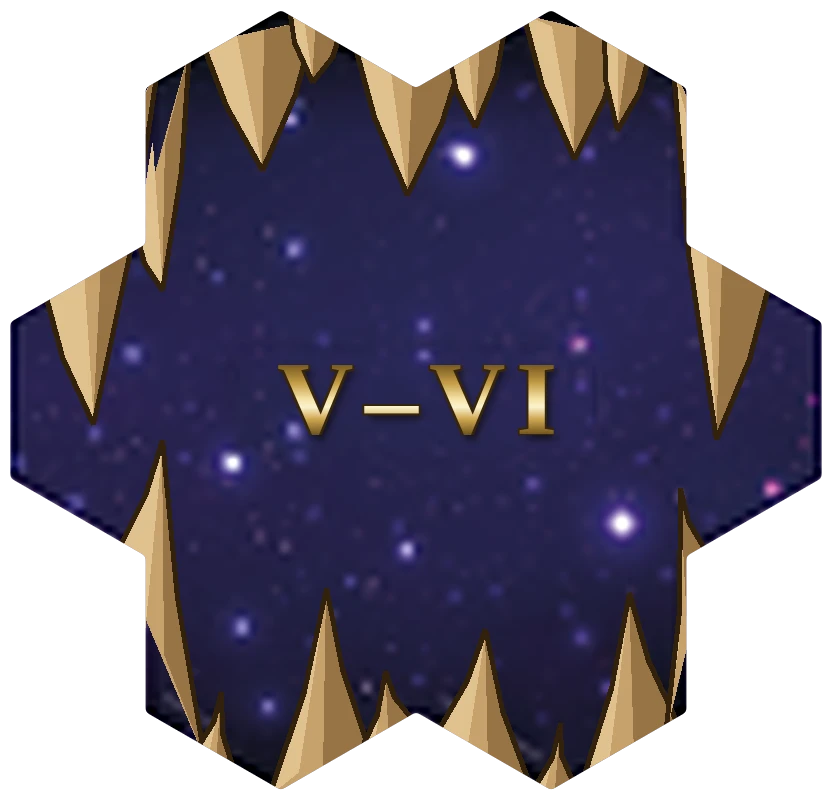
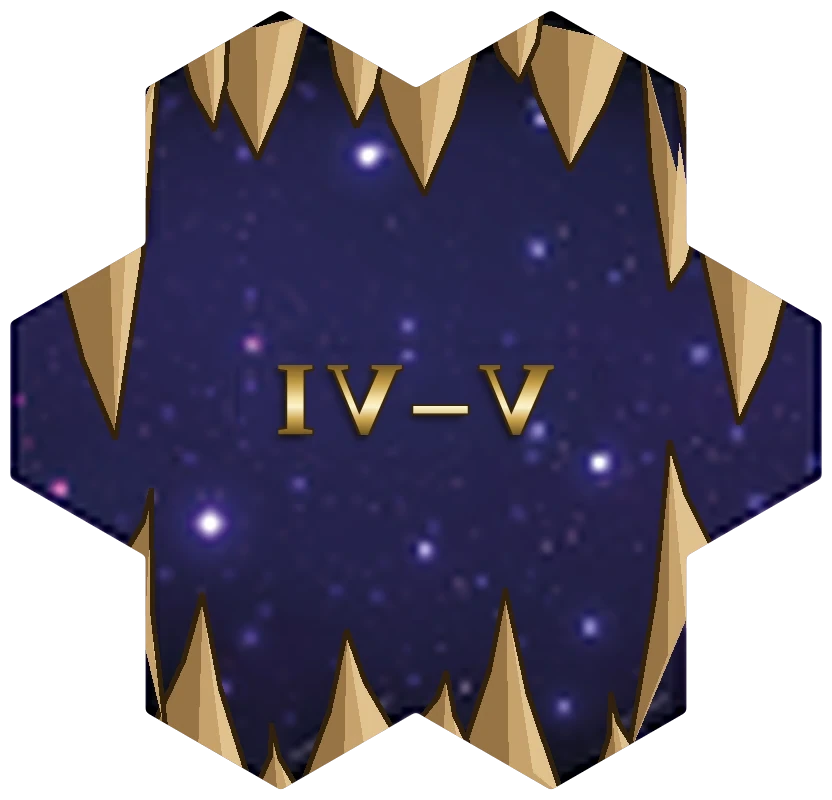
Fix underground tier: regular band is Ⅳ–Ⅴ, not Ⅴ–Ⅵ (matches field guards)
The regular underground tier was mislabelled Ⅴ–Ⅵ. The field guards are the
ground truth and every regular underground tile (U1–U6, #N4–#N7) is guarded
only Ⅳ/Ⅴ — none has a Ⅵ field — so the correct band is Ⅳ–Ⅴ, exactly like the
sea pool's lower band. The Ⅴ–Ⅵ reading came from a horizontally mirrored
difficulty token in the source scans (real "IV-V" reads as "V-VI" when
flipped; the boss tiles' "IIV-IV" is mirrored "VI-VII"). Boss tiles (U7, #C2,
#C3, guarded Ⅵ/Ⅶ) stay Ⅵ–Ⅶ. Underground bands are now identical to sea:
iv-v / vi-vii.

- subterraneanTileBand → "iv-v" | "vi-vii"; tileBandLabel and the
  TILE_BACK_LABELS default now read Ⅳ–Ⅴ; CustomMapTilePlan.subBand,
  popSubBandTile, the designer palette ("Underground Ⅳ–Ⅴ") and the face-down
  combined hint (Ⅳ–Ⅶ) all corrected.
- back-subterranean.webp baked the wrong "V–VI" numeral. Because I/V/– are
  horizontally symmetric, mirror("V–VI") == "IV–V", so the back image is
  flipped — a pixel-identical art fix that now reads Ⅳ–Ⅴ.

Audit of ALL 108 tiles (not just the uploaded ones): with the corrected logic
every tile's back band brackets its field guards — far Ⅱ–Ⅲ, near Ⅳ–Ⅴ, center
Ⅵ–Ⅶ, and both sea bands were already correct; only the underground regular
band was wrong. New invariant test in expansion-content.test.ts instantiates
every tile and asserts its back numeral contains every guarded field, so any
flipped/mismatched tier for any group now fails CI.
[…]

diff --git a/src/components/adventure/map-designer.tsx b/src/components/adventure/map-designer.tsx
@@ -26,7 +26,7 @@ type DesignGroup = CustomMapTilePlan["group"];
 /** Sea tiles ship two guard bands behind one wave back; the designer offers each. */
 type SeaBand = NonNullable<CustomMapTilePlan["seaBand"]>;
 
-/** Underground tiles likewise span two guard bands (Ⅴ–Ⅵ and a Ⅵ–Ⅶ boss tier). */
+/** Underground tiles likewise span two guard bands (Ⅳ–Ⅴ and a Ⅵ–Ⅶ boss tier). */
 type SubBand = NonNullable<CustomMapTilePlan["subBand"]>;
 
 /** Short printed label per group (the Roman numeral on the tile back). */
@@ -43,7 +43,7 @@ export const TILE_GROUP_LABELS: Record<DesignGroup, string> = {
 const SEA_BAND_NUMERAL: Record<SeaBand, string> = { "iv-v": "Ⅳ–Ⅴ", "vi-vii": "Ⅵ–Ⅶ" };
 
 /** The printed numerals for an underground tile's guard band. */
-const SUB_BAND_NUMERAL: Record<SubBand, string> = { "v-vi": "Ⅴ–Ⅵ", "vi-vii": "Ⅵ–Ⅶ" };
+const SUB_BAND_NUMERAL: Record<SubBand, string> = { "iv-v": "Ⅳ–Ⅴ", "vi-vii": "Ⅵ–Ⅶ" };
 
 /** Label for a placed/dragged plan — sea/underground read their band, every other group its numeral. */
 function planGroupLabel(plan: { group: DesignGroup; seaBand?: SeaBand; subBand?: SubBand }): string {
@@ -51,7 +51,7 @@ function planGroupLabel(plan: { group: DesignGroup; seaBand?: SeaBand; subBand?:
     return `Sea ${SEA_BAND_NUMERAL[plan.seaBand ?? "iv-v"]}`;
   }
   if (plan.group === "subterranean") {
-    return `Underground ${SUB_BAND_NUMERAL[plan.subBand ?? "v-vi"]}`;
+    return `Underground ${SUB_BAND_NUMERAL[plan.subBand ?? "iv-v"]}`;
   }
   return TILE_GROUP_LABELS[plan.group];
 }
@@ -73,7 +73,7 @@ const PALETTE: { key: string; group: DesignGroup; seaBand?: SeaBand; subBand?: S
   { key: "center", group: "center", label: "Center", numeral: "Ⅵ–Ⅶ", hint: "Strong central tile. Placed face-down (random from the Center pool)." },
   { key: "sea-iv-v", group: "sea", seaBand: "iv-v", label: "Sea Ⅳ–Ⅴ", numeral: "🌊", hint: "Weaker sea tile (Ⅳ–Ⅴ guard band). Placed face-down — draws a random Ⅳ–Ⅴ tile from the wave pool." },
   { key: "sea-vi-vii", group: "sea", seaBand: "vi-vii", label: "Sea Ⅵ–Ⅶ", numeral: "🌊", hint: "Stronger sea tile (Ⅵ–Ⅶ guard band). Placed face-down — draws a random Ⅵ–Ⅶ tile from the wave pool." },
-  { key: "sub-v-vi", group: "subterranean", subBand: "v-vi", label: "Underground Ⅴ–Ⅵ", numeral: "⛰", hint: "Regular underground tile (Ⅴ–Ⅵ guard band). Placed face-down — draws a random Ⅴ–Ⅵ tile from the underground pool." },
+  { key: "sub-iv-v", group: "subterranean", subBand: "iv-v", label: "Underground Ⅳ–Ⅴ", numeral: "⛰", hint: "Regular underground tile (Ⅳ–Ⅴ guard band). Placed face-down — draws a random Ⅳ–Ⅴ tile from the underground pool." },
   { key: "sub-vi-vii", group: "subterranean", subBand: "vi-vii", label: "Underground Ⅵ–Ⅶ", numeral: "⛰", hint: "Boss underground tile (Ⅵ–Ⅶ guard band — Cyclops Stockpile or Random Town). Placed face-down — draws a random Ⅵ–Ⅶ tile from the underground pool." }
 ];
 
@@ -361,7 +361,7 @@ export function MapDesigner({
         // Sea slots only reveal tiles from their own guard band (Ⅳ–Ⅴ vs Ⅵ–Ⅶ);
         // legacy slots without a band still see every sea tile.
         .filter((tile) => selected.group !== "sea" || !selected.seaBand || seaTileBand(tile) === selected.seaBand)
-        // Underground slots likewise reveal only their own band (Ⅴ–Ⅵ vs the
+        // Underground slots likewise reveal only their own band (Ⅳ–Ⅴ vs the
         // Ⅵ–Ⅶ boss tier); legacy bandless slots still see every underground tile.
         .filter(
           (tile) =>

diff --git a/src/engine/adventure.ts b/src/engine/adventure.ts
@@ -160,9 +160,11 @@ export const TILE_BACK_LABELS: Record<string, string> = {
   far: "Ⅱ–Ⅲ",
   near: "Ⅳ–Ⅴ",
   center: "Ⅵ–Ⅶ",
-  // Expansion backs, numbered as printed (sea waves IV–V, underworld V–VI).
+  // Expansion backs: both the sea waves and the underworld pool ship a Ⅳ–Ⅴ
+  // tier and a Ⅵ–Ⅶ boss tier; the per-tile band is read from the field guards
+  // (see seaTileBand / subterraneanTileBand). This default is the Ⅳ–Ⅴ tier.
   sea: "Ⅳ–Ⅴ",
-  subterranean: "Ⅴ–Ⅵ"
+  subterranean: "Ⅳ–Ⅴ"
 };
 
 export function getAstrologersState(state: GameState): AstrologersState | null {
@@ -266,17 +268,19 @@ export function seaTileBand(def: TileDefinition): "iv-v" | "vi-vii" {
 }
 
 /**
- * Which guard band a Subterranean tile belongs to. Like the Cove sea pool, the
- * underground pool mixes a regular Ⅴ–Ⅵ tier (U1–U6, #N4–#N7) with a Ⅵ–Ⅶ boss
- * tier — the three underground tiles whose centre is a VII guardian: U7 and #C2
- * (Cyclops Stockpile) and #C3 (Random Town). The band is read from the tile's
- * strongest guarded field, the same rule {@link seaTileBand} uses, so the map
- * designer can offer the two underground levels separately and draw the matching
- * face-down pool, and a revealed boss tile reports the Ⅵ–Ⅶ back numeral.
+ * Which guard band a Subterranean tile belongs to. Exactly like the Cove sea
+ * pool, the underground pool mixes a regular Ⅳ–Ⅴ tier (U1–U6, #N4–#N7 — every
+ * guarded field on them is Ⅳ or Ⅴ) with a Ⅵ–Ⅶ boss tier — the three
+ * underground tiles whose centre is a VII guardian: U7 and #C2 (Cyclops
+ * Stockpile) and #C3 (Random Town, guarded Ⅵ/Ⅶ). The band is read from the
+ * tile's strongest guarded field, the same rule {@link seaTileBand} uses, so the
+ * map designer can offer the two underground levels separately and draw the
+ * matching face-down pool, and a revealed boss tile reports the Ⅵ–Ⅶ back
+ * numeral.
  */
-export function subterraneanTileBand(def: TileDefinition): "v-vi" | "vi-vii" {
+export function subterraneanTileBand(def: TileDefinition): "iv-v" | "vi-vii" {
   const maxDifficulty = def.fields.reduce((max, field) => Math.max(max, field.difficulty ?? 0), 0);
-  return maxDifficulty >= 6 ? "vi-vii" : "v-vi";
+  return maxDifficulty >= 6 ? "vi-vii" : "iv-v";
 }
 
 /**
@@ -290,7 +294,7 @@ function tileBandLabel(group: string | undefined, def: TileDefinition | undefine
     return seaTileBand(def) === "vi-vii" ? "Ⅵ–Ⅶ" : "Ⅳ–Ⅴ";
   }
   if (group === "subterranean" && def) {
-    return subterraneanTileBand(def) === "vi-vii" ? "Ⅵ–Ⅶ" : "Ⅴ–Ⅵ";
+    return subterraneanTileBand(def) === "vi-vii" ? "Ⅵ–Ⅶ" : "Ⅳ–Ⅴ";
   }
   return group ? TILE_BACK_LABELS[group] : undefined;
 }

diff --git a/src/engine/adventure.test.ts b/src/engine/adventure.test.ts
@@ -269,19 +269,21 @@ describe("adventure setup", () => {
     expect(centerSeaC.backLabel).toBe("Ⅵ–Ⅶ");
   });
 
-  it("labels underground tiles by their Ⅴ–Ⅵ / Ⅵ–Ⅶ guard band (boss tier = U7/#C2/#C3)", () => {
-    // The underground pool ships a regular Ⅴ–Ⅵ tier and a Ⅵ–Ⅶ boss tier (the
-    // three tiles centred on a VII guardian) behind one underground back. The
-    // band follows each tile's strongest guarded field, exactly like the sea
-    // pool — so a revealed boss tile reports Ⅵ–Ⅶ and feeds the Center-tier deck
-    // rules (heroTileGroup / anyNearOrCenterTileRevealed) instead of masquerading
-    // as a regular underground tile.
+  it("labels underground tiles by their Ⅳ–Ⅴ / Ⅵ–Ⅶ guard band (boss tier = U7/#C2/#C3)", () => {
+    // The underground pool ships a regular Ⅳ–Ⅴ tier (its fields are guarded Ⅳ/Ⅴ)
+    // and a Ⅵ–Ⅶ boss tier (the three tiles centred on a VII guardian) behind one
+    // underground back — exactly the Ⅳ–Ⅴ / Ⅵ–Ⅶ split the sea pool uses. The band
+    // follows each tile's strongest guarded field, so a revealed boss tile reports
+    // Ⅵ–Ⅶ and feeds the Center-tier deck rules (heroTileGroup /
+    // anyNearOrCenterTileRevealed) instead of masquerading as a regular tile.
     const adventure = makeGame().adventure!;
     const regular = instantiateTile(adventure, "U1", { row: -8, col: -8 }, 0, true);
     const bossU = instantiateTile(adventure, "U7", { row: -8, col: -9 }, 0, true);
     const bossC2 = instantiateTile(adventure, "#C2", { row: -8, col: -10 }, 0, true);
     const bossC3 = instantiateTile(adventure, "#C3", { row: -8, col: -11 }, 0, true);
-    expect(regular.backLabel).toBe("Ⅴ–Ⅵ");
+    // Regular underground reports Ⅳ–Ⅴ (NOT Ⅴ–Ⅵ): no underground tile is guarded Ⅵ
+    // unless it is one of the three Ⅵ–Ⅶ boss tiles.
+    expect(regular.backLabel).toBe("Ⅳ–Ⅴ");
     expect(bossU.backLabel).toBe("Ⅵ–Ⅶ");
     expect(bossC2.backLabel).toBe("Ⅵ–Ⅶ");
     expect(bossC3.backLabel).toBe("Ⅵ–Ⅶ");
@@ -291,7 +293,7 @@ describe("adventure setup", () => {
     const sub = Object.values(allTileDefinitions).filter((tile) => tile.group === "subterranean");
     const boss = sub.filter((tile) => subterraneanTileBand(tile) === "vi-vii").map((tile) => tile.id).sort();
     expect(boss).toEqual(["#C2", "#C3", "U7"]);
-    expect(sub.filter((tile) => subterraneanTileBand(tile) === "v-vi")).toHaveLength(sub.length - 3);
+    expect(sub.filter((tile) => subterraneanTileBand(tile) === "iv-v")).toHaveLength(sub.length - 3);
   });
 
   it("drafts two far tiles per player, redrawing until one has a settlement", () => {

diff --git a/src/engine/expansion-content.test.ts b/src/engine/expansion-content.test.ts
@@ -61,6 +61,36 @@ describe("expansion tile data", () => {
     }
   });
 
+  it("labels every tile's back numeral to bracket its field guards (no flipped/mismatched tiers)", () => {
+    // INVARIANT over ALL tiles, every group: the printed back band a tile shows
+    // (Ⅰ / Ⅱ–Ⅲ / Ⅳ–Ⅴ / Ⅵ–Ⅶ) must contain every guarded field on it. A tile
+    // guarded Ⅳ/Ⅴ can never read Ⅴ–Ⅵ, a Ⅵ/Ⅶ tile can never read Ⅳ–Ⅴ, etc. This
+    // is the guard that catches a flipped-scan / transcription tier error for any
+    // tile — far, near, center, sea or underground — not just the one audited.
+    const BAND_RANGE: Record<string, [number, number]> = {
+      "Ⅰ": [1, 1],
+      "Ⅱ–Ⅲ": [2, 3],
+      "Ⅳ–Ⅴ": [4, 5],
+      "Ⅵ–Ⅶ": [6, 7]
+    };
+    const adventure = createAdventureGameState({ seed: "tier-invariant", rollFirstPlayer: false }).adventure!;
+    let index = 0;
+    for (const def of Object.values(allTileDefinitions)) {
+      // Spread the probes far apart (9 rows each) so their footprints never overlap.
+      const tile = instantiateTile(adventure, def.id, { row: 400 + index * 9, col: 400 }, 0, true);
+      index += 1;
+      const range = BAND_RANGE[tile.backLabel ?? ""];
+      expect(range, `${def.id} shows an unexpected back band "${tile.backLabel}"`).toBeDefined();
+      for (const guard of def.fields.map((field) => field.difficulty ?? 0).filter((value) => value > 0)) {
+        expect(
+          guard >= range![0] && guard <= range![1],
+          `${def.id} (group ${def.group}) has a field guarded ${guard} but its back band ` +
+            `"${tile.backLabel}" only covers ${range![0]}–${range![1]} — the printed tier is wrong`
+        ).toBe(true);
+      }
+    }
+  });
+
   it("keeps the boxed sets and expansions disjoint and complete", () => {
     const coreIds = new Set(Object.keys(coreTileDefinitions));
     for (const id of Object.keys(expansionTileDefinitions)) {

diff --git a/src/engine/custom-setup.test.ts b/src/engine/custom-setup.test.ts
@@ -117,13 +117,13 @@ describe("map designer", () => {
     expect(faceDown!.tileDefId).not.toBe("F1");
   });
 
-  it("draws a face-down underground slot only from its own guard band (Ⅴ–Ⅵ vs the Ⅵ–Ⅶ boss tier)", () => {
-    // The designer offers Underground Ⅴ–Ⅵ and Underground Ⅵ–Ⅶ as two palette
+  it("draws a face-down underground slot only from its own guard band (Ⅳ–Ⅴ vs the Ⅵ–Ⅶ boss tier)", () => {
+    // The designer offers Underground Ⅳ–Ⅴ and Underground Ⅵ–Ⅶ as two palette
     // entries (mirroring the two sea bands). A face-down underground slot must
     // draw only from the band its plan carries — the Ⅵ–Ⅶ band is exactly the
     // three VII-centre boss tiles (U7 / #C2 Cyclops Stockpile, #C3 Random Town).
     const bossIds = new Set(["U7", "#C2", "#C3"]);
-    const drawUnderground = (subBand: "v-vi" | "vi-vii") => {
+    const drawUnderground = (subBand: "iv-v" | "vi-vii") => {
       const state = createAdventureGameState({
         seed: `designed-underground-${subBand}`,
         customMap: [{ row: 9, col: 4, group: "subterranean", faceDown: true, subBand }]
@@ -138,11 +138,11 @@ describe("map designer", () => {
     expect(boss.backLabel).toBe("Ⅵ–Ⅶ");
 
     // Control: the regular band never draws one of the three boss tiles, and a
-    // V–VI draw reports the regular back numeral — so the band genuinely gates
+    // Ⅳ–Ⅴ draw reports the regular back numeral — so the band genuinely gates
     // the pool, not just the label.
-    const regular = drawUnderground("v-vi");
+    const regular = drawUnderground("iv-v");
     expect(bossIds.has(regular.tileDefId!)).toBe(false);
-    expect(regular.backLabel).toBe("Ⅴ–Ⅵ");
+    expect(regular.backLabel).toBe("Ⅳ–Ⅴ");
   });
 
   it("forces the win-condition objective onto a face-down Center tile, not a random draw", () => {

diff --git a/src/engine/adventure-setup.ts b/src/engine/adventure-setup.ts
@@ -503,13 +503,13 @@ function popSeaBandTile(pool: string[], band: "iv-v" | "vi-vii"): string | undef
 }
 
 /**
- * Pops the topmost Subterranean tile of a given guard band (Ⅴ–Ⅵ or Ⅵ–Ⅶ) from
+ * Pops the topmost Subterranean tile of a given guard band (Ⅳ–Ⅴ or Ⅵ–Ⅶ) from
  * the single shared, shuffled underground pool — the underground twin of
  * {@link popSeaBandTile}. The boss band (Ⅵ–Ⅶ) is the three tiles whose centre
  * is a VII guardian (U7 / #C2 Cyclops Stockpile, #C3 Random Town); everything
- * else is the regular Ⅴ–Ⅵ band (see {@link subterraneanTileBand}).
+ * else is the regular Ⅳ–Ⅴ band (see {@link subterraneanTileBand}).
  */
-function popSubBandTile(pool: string[], band: "v-vi" | "vi-vii"): string | undefined {
+function popSubBandTile(pool: string[], band: "iv-v" | "vi-vii"): string | undefined {
   for (let index = pool.length - 1; index >= 0; index -= 1) {
     const def = allTileDefinitions[pool[index]];
     if (def && subterraneanTileBand(def) === band) {
@@ -775,9 +775,9 @@ export function createAdventureGameState(options: AdventureSetupOptions = {}): G
       band ? popSeaBandTile(seaPool, band) : seaPool.pop();
 
     // A face-down underground slot likewise draws only from its own guard band
-    // (Ⅴ–Ⅵ or Ⅵ–Ⅶ) out of the one shuffled subterranean pool. An undefined
+    // (Ⅳ–Ⅴ or Ⅵ–Ⅶ) out of the one shuffled subterranean pool. An undefined
     // band (older saved maps) takes any underground tile, as before.
-    const popSubTile = (band?: "v-vi" | "vi-vii"): string | undefined =>
+    const popSubTile = (band?: "iv-v" | "vi-vii"): string | undefined =>
       band ? popSubBandTile(subterraneanPool, band) : subterraneanPool.pop();
 
     // Designed face-up tiles never also hide in a face-down pool draw.

diff --git a/src/engine/state.ts b/src/engine/state.ts
@@ -6163,14 +6163,14 @@ export type CustomMapTilePlan = {
    */
   seaBand?: "iv-v" | "vi-vii";
   /**
-   * Subterranean tiles only: which guard band this slot belongs to. The
-   * underground pool mixes a regular Ⅴ–Ⅵ tier (U1–U6, #N4–#N7) with a Ⅵ–Ⅶ
-   * boss tier (U7 / #C2 Cyclops Stockpile, #C3 Random Town), so the designer
-   * offers them as two palette entries — a face-down underground slot then
-   * draws only from the matching band. Undefined (older saved maps) means
+   * Subterranean tiles only: which guard band this slot belongs to. Like the
+   * sea pool, the underground pool mixes a regular Ⅳ–Ⅴ tier (U1–U6, #N4–#N7)
+   * with a Ⅵ–Ⅶ boss tier (U7 / #C2 Cyclops Stockpile, #C3 Random Town), so the
+   * designer offers them as two palette entries — a face-down underground slot
+   * then draws only from the matching band. Undefined (older saved maps) means
    * "any subterranean tile".
    */
-  subBand?: "v-vi" | "vi-vii";
+  subBand?: "iv-v" | "vi-vii";
 };
 
 /** Pre-game lobby: players pick factions and heroes before the map builds. */

diff --git a/src/components/adventure/screen.tsx b/src/components/adventure/screen.tsx
@@ -515,11 +515,11 @@ export function HexMapBoard({
     if (tile.faceDown) {
       const discover = discoverByTile.get(tile.id);
       // Sea tiles ship both Ⅳ–Ⅴ and Ⅵ–Ⅶ behind one wave back, and the
-      // underground pool likewise ships its Ⅴ–Ⅵ and Ⅵ–Ⅶ bands behind one
-      // underground back — so the face-down hint shows the whole range and the
-      // exact band stays secret until the tile is revealed.
+      // underground pool likewise ships its Ⅳ–Ⅴ and Ⅵ–Ⅶ bands behind one
+      // underground back — so the face-down hint shows the whole Ⅳ–Ⅶ range and
+      // the exact band stays secret until the tile is revealed.
       const backLabelDisplay =
-        tile.group === "sea" ? "Ⅳ–Ⅶ" : tile.group === "subterranean" ? "Ⅴ–Ⅶ" : tile.backLabel ?? "";
+        tile.group === "sea" || tile.group === "subterranean" ? "Ⅳ–Ⅶ" : tile.backLabel ?? "";
       const footprint = tileFootprint(center, 0);
       const centerPixel = hexToPixel(center, HEX_SIZE);
       const backWidth = 3 * HEX_WIDTH;

diff --git a/src/data/assets/homm-assets.ts b/src/data/assets/homm-assets.ts
@@ -193,7 +193,7 @@ export function moraleIcon(morale: number): string {
  * Face-down map tile backs by tile group: the four rulebook backs (starry
  * night with the printed roman numerals) extracted from the official
  * rulebook PDF, plus sea (golden waves, Ⅳ–Ⅴ) and subterranean (cavern
- * teeth, Ⅴ–Ⅵ) backs drawn in the same style after the expansion photos.
+ * teeth, Ⅳ–Ⅴ) backs drawn in the same style after the expansion photos.
  */
 export const TILE_BACK_IMAGES: Record<string, string> = {
   starting: "/assets/board/backs/back-starting.webp",
